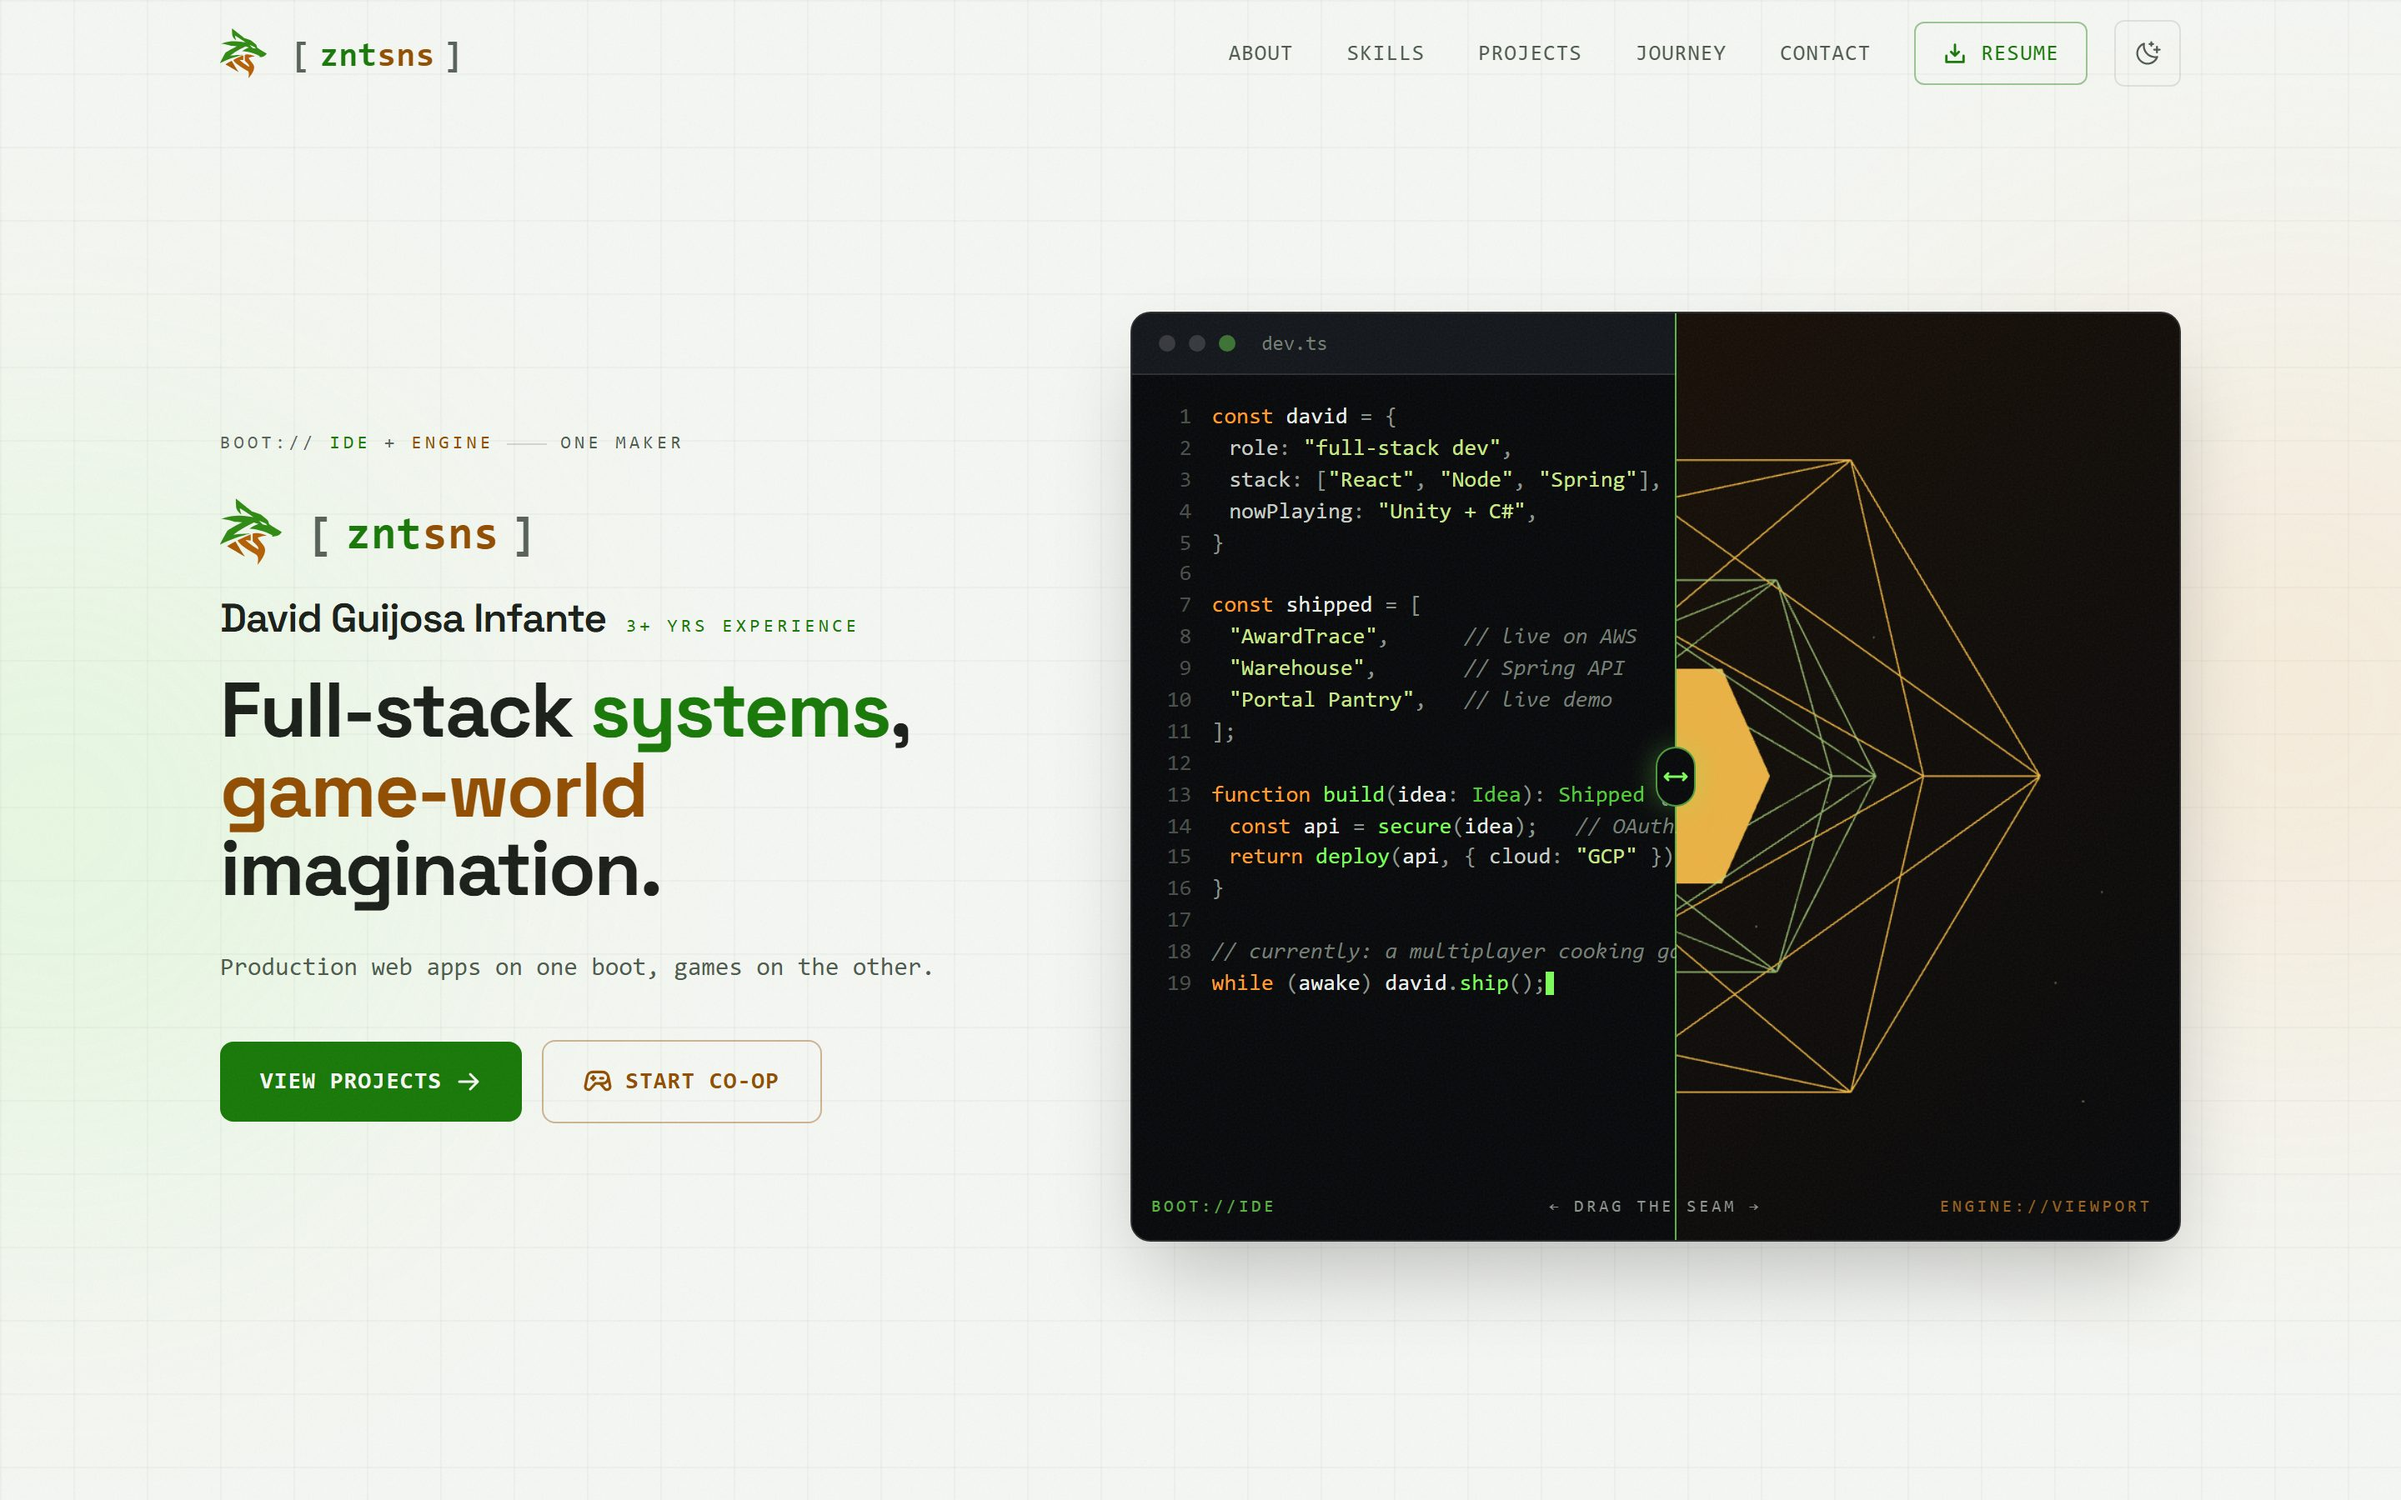
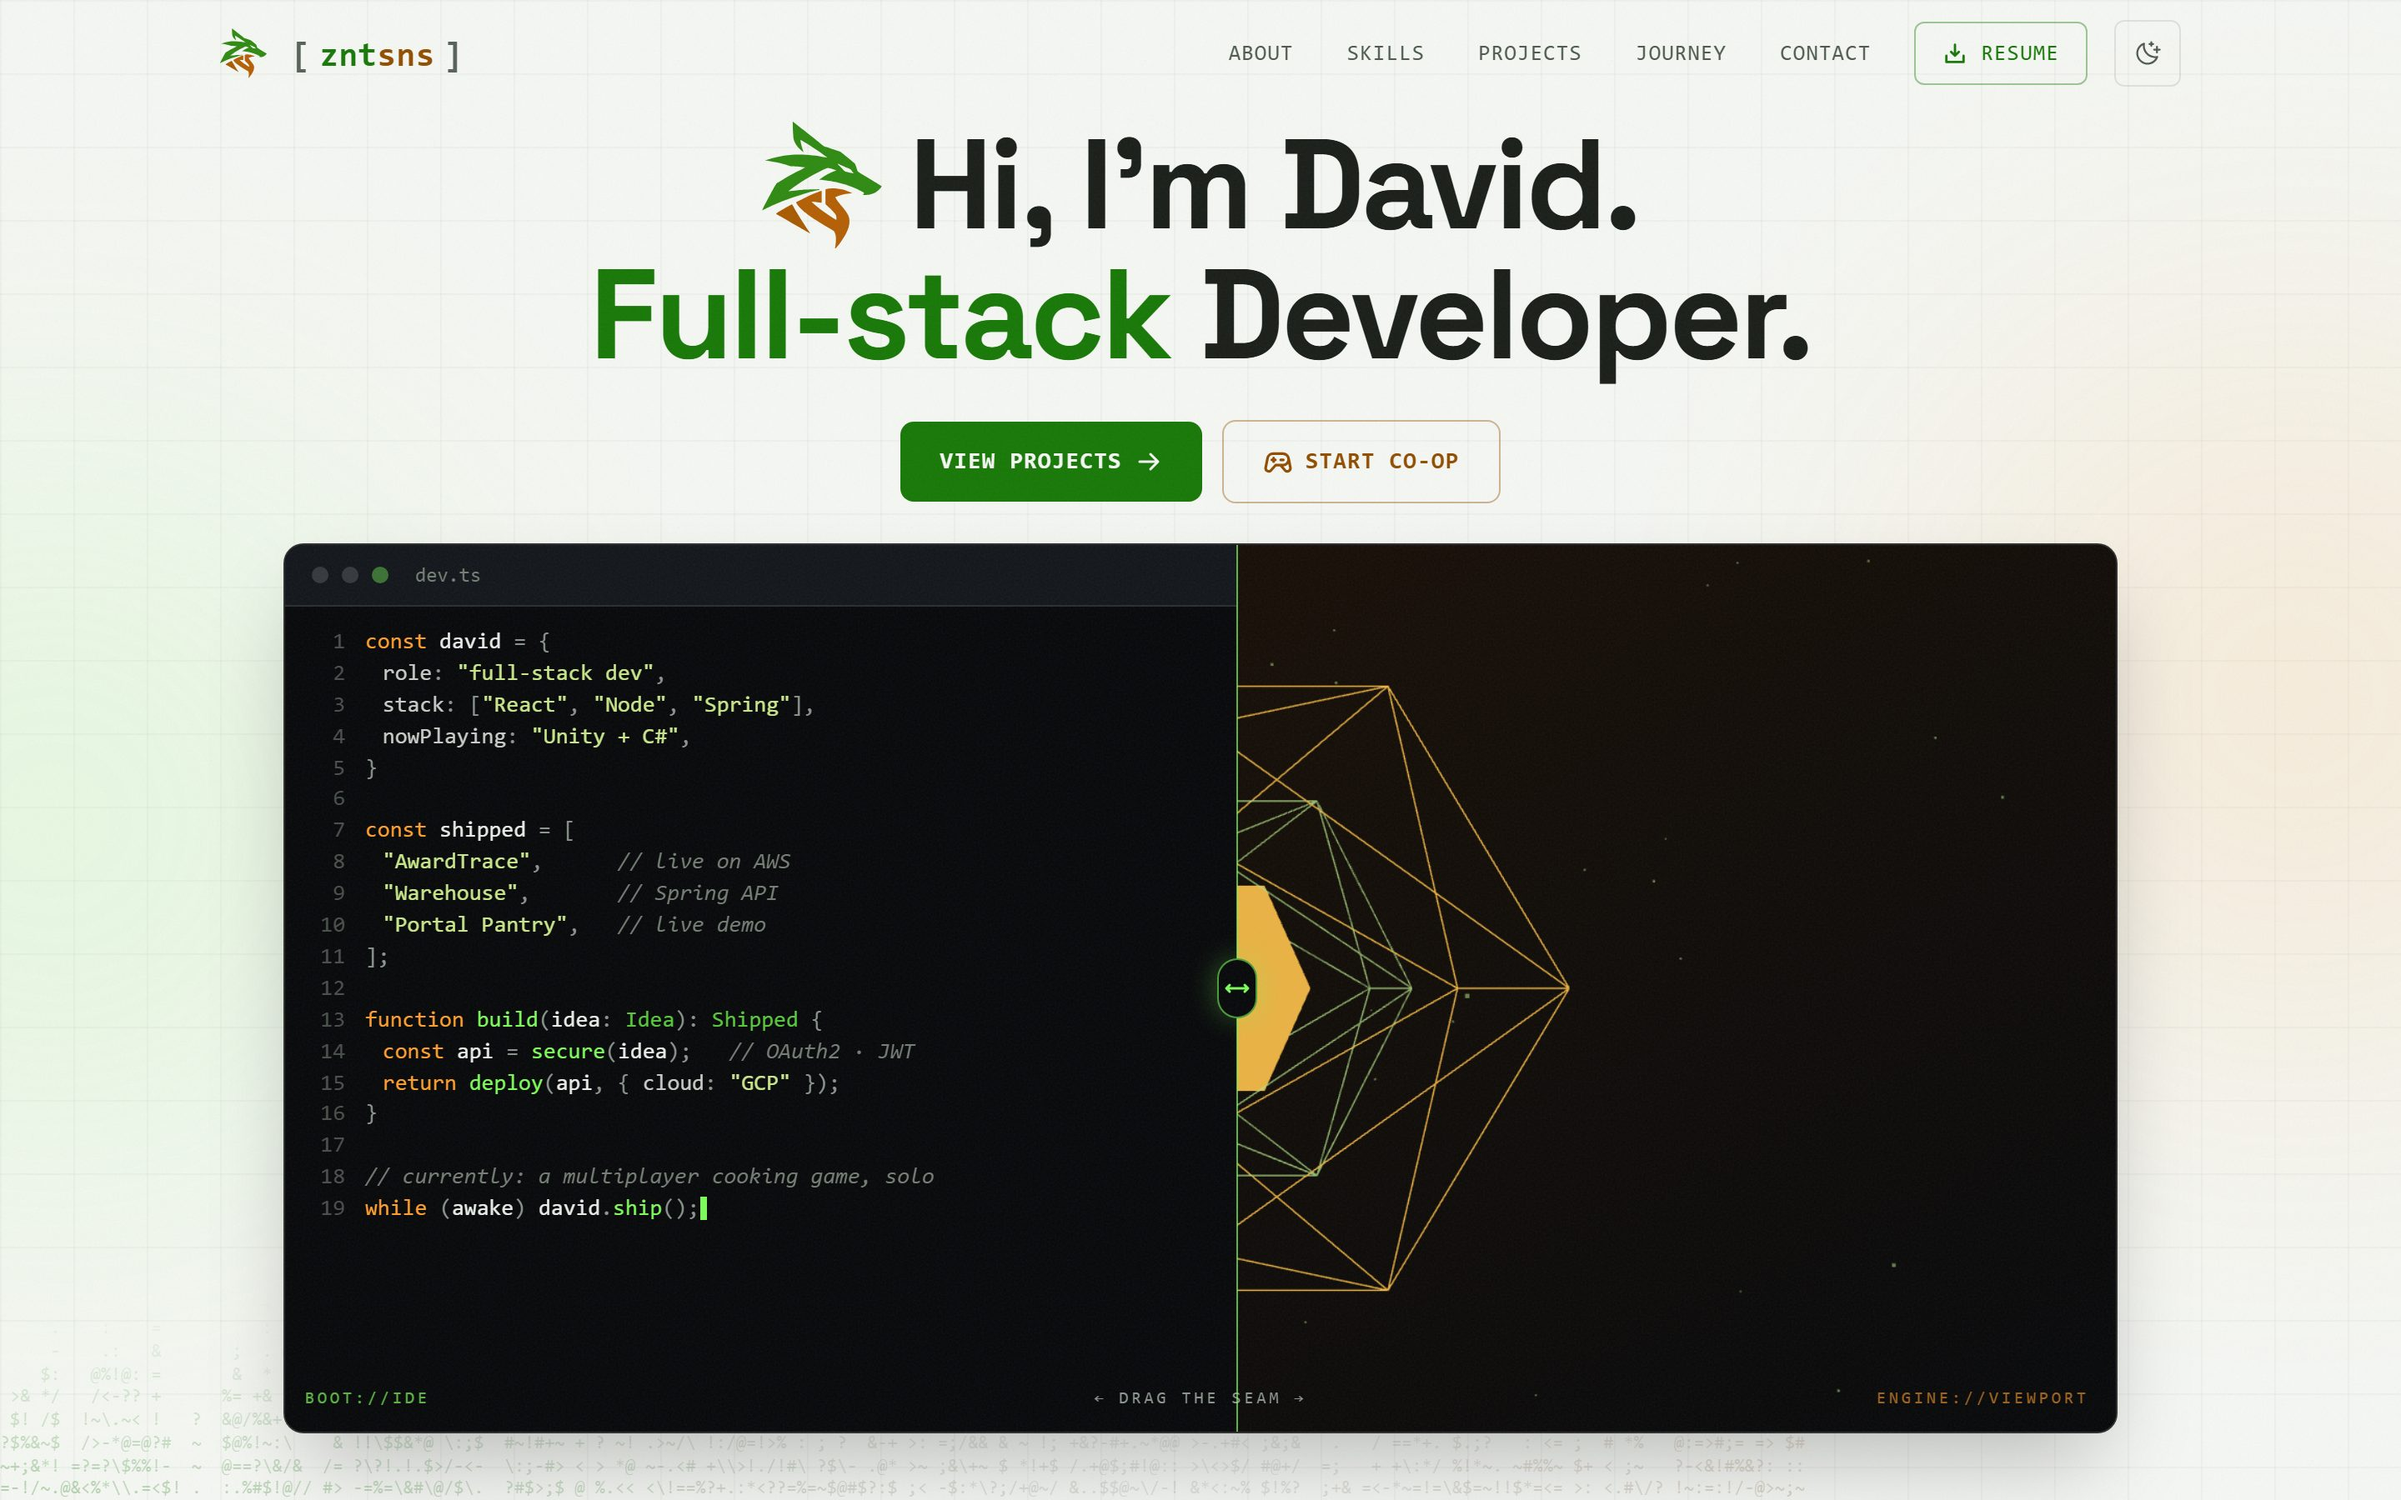
feat(hero): center the landing page with a cycling role headline

diff --git a/apps/portafolio/src/sections/Hero.tsx b/apps/portafolio/src/sections/Hero.tsx
@@ -8,7 +8,7 @@ import {
 } from "motion/react";
 import { ArrowRight, GameController, ArrowsHorizontal } from "@phosphor-icons/react";
 import { hero, site } from "../data/content";
-import { ZntsnsLogo } from "../components/ZntsnsLogo";
+import { useScramble } from "../lib/useScramble";
 import { MagneticButton } from "../components/MagneticButton";
 import { ErrorBoundary } from "../components/ErrorBoundary";
 import { Scanlines } from "../components/fx";
@@ -17,6 +17,69 @@ import { cn } from "../lib/cn";
 import { BrandLogo } from "../components/BrandLogo";
 
 const EngineViewport = lazy(() => import("./EngineViewport"));
+
+/** The role word in "… Developer." cycles, decoding through the scramble glyphs each time. */
+function RoleWord({ play }: { play: boolean }) {
+  const [i, setI] = useState(0);
+  useEffect(() => {
+    if (!play) return;
+    const id = window.setInterval(() => setI((n) => (n + 1) % hero.roles.length), 2600);
+    return () => window.clearInterval(id);
+  }, [play]);
+  const text = useScramble(hero.roles[i], play, 0.35);
+  return (
+    <span aria-hidden="true" className={i % 2 ? "text-amber text-glow-amber" : "text-acid text-glow-acid"}>
+      {text}
+    </span>
+  );
+}
+
+const GLYPHS = "#$%&*+-./:;<=>?@~!\\";
+const COLS = 420; // ~2,800px of 11px mono, past ultrawide; the pre clips the rest
+const ROWS = 9;
+
+/** Heaps of glyphs along the bottom edge: column heights drift, characters flicker. */
+function glyphField(heights: number[]): string {
+  const pick = () => GLYPHS[Math.floor(Math.random() * GLYPHS.length)];
+  return Array.from({ length: ROWS }, (_, r) =>
+    heights.map((h) => (r >= ROWS - h ? pick() : " ")).join(""),
+  ).join("\n");
+}
+
+/**
+ * Column heights at tick `t`: two sine swells, a long one and a short chop. Phase
+ * grows with t, so every crest travels toward column 0 — right to left, like surf.
+ */
+function swell(t: number): number[] {
+  return Array.from({ length: COLS }, (_, c) => {
+    const y = 0.45 + 0.3 * Math.sin(c * 0.09 + t * 0.25) + 0.15 * Math.sin(c * 0.23 + t * 0.4);
+    return Math.max(0, Math.min(ROWS, Math.round(ROWS * y)));
+  });
+}
+
+function GlyphBand({ animate }: { animate: boolean }) {
+  const [text, setText] = useState("");
+  useEffect(() => {
+    let t = 0;
+    const tick = () => {
+      t += 1;
+      setText(glyphField(swell(t)));
+    };
+    tick();
+    if (!animate) return;
+    const id = window.setInterval(tick, 90);
+    return () => window.clearInterval(id);
+  }, [animate]);
+
+  return (
+    <pre
+      aria-hidden="true"
+      className="pointer-events-none absolute inset-x-0 bottom-0 select-none overflow-hidden whitespace-pre bg-gradient-to-r from-acid/30 via-white/10 to-amber/30 bg-clip-text font-mono text-[11px] leading-[1.25] text-transparent [mask-image:linear-gradient(to_top,black,transparent)]"
+    >
+      {text}
+    </pre>
+  );
+}
 
 export function Hero() {
   const reduce = useReducedMotion();
@@ -118,45 +181,21 @@ export function Hero() {
         />
       </div>
 
-      <div className="relative mx-auto grid min-h-[100dvh] max-w-[1240px] items-center gap-8 px-5 pb-12 pt-24 sm:px-8 lg:grid-cols-[minmax(0,43%)_1fr] lg:gap-10 lg:pt-20">
+      <div className="relative z-10 mx-auto flex min-h-[100dvh] max-w-[1240px] flex-col items-center px-5 pb-40 pt-28 sm:px-8 lg:h-[100dvh] lg:min-h-[640px] lg:pb-10 lg:pt-[4.5rem]">
         {/* Copy */}
-        <div className="max-w-xl">
-          {/* A boot line from the machine below rather than a badge — the same
-              BOOT:// vocabulary the viewport and footer terminal already speak. */}
-          <div className="mb-6 flex items-center gap-2 font-mono text-[11px] uppercase tracking-[0.2em] text-muted">
-            <span className="text-faint">boot://</span>
-            <span className="text-acid">ide</span>
-            <span className="text-faint" aria-hidden="true">
-              +
+        <div className="flex max-w-4xl flex-col items-center text-center">
+          {/* The h1 carries the full name: this page ranks for a person, not a slogan. */}
+          <h1 className="flex flex-col items-center whitespace-nowrap text-[min(7.4vw,3.6rem)] font-bold leading-[1.04] tracking-tight lg:text-[clamp(3rem,8.5vh,5rem)] lg:leading-[1.02]">
+            <span className="flex items-center gap-3 sm:gap-4">
+              <BrandLogo height={52} className="h-[1em] w-auto" />
+              Hi, I&apos;m {site.name}.
             </span>
-            <span className="text-amber">engine</span>
-            <span className="h-px w-6 bg-white/15" aria-hidden="true" />
-            <span>one maker</span>
-          </div>
-          <div className="mb-4 flex items-center gap-3">
-            <BrandLogo height={40} />
-            <ZntsnsLogo height={40} boot />
-          </div>
-          {/* The name is the h1, not the tagline below it: this page ranks for a
-              person, and a heading naming someone else's slogan spends that signal. */}
-          <div className="mb-4 flex flex-wrap items-baseline gap-x-3 gap-y-1">
-            <h1 className="text-xl font-semibold tracking-tight text-ink sm:text-2xl">
-              {site.fullName}
-            </h1>
-            <span className="font-mono text-[11px] uppercase tracking-[0.2em] text-acid">
-              {site.experience}
+            <span>
+              <RoleWord play={!reduce && inView} /> Developer.
             </span>
-          </div>
-          <p className="text-[2rem] font-bold tracking-tight sm:text-[2.5rem] lg:text-[2.5rem] lg:leading-[1.05] xl:text-[2.9rem] xl:leading-[1.03]">
-            <span className="block">
-              Full-stack <span className="text-acid text-glow-acid">systems</span>,
-            </span>
-            <span className="block">
-              <span className="text-amber text-glow-amber">game-world</span> imagination.
-            </span>
-          </p>
-          <p className="mt-6 max-w-md font-mono text-sm text-muted sm:text-[15px]">{hero.tagline}</p>
-          <div className="mt-8 flex flex-wrap items-center gap-3">
+            <span className="sr-only">{site.fullName}, {hero.roles.join(", ")} developer</span>
+          </h1>
+          <div className="mt-8 flex flex-wrap items-center justify-center gap-3 lg:mt-6">
             <MagneticButton
               href={hero.primaryCta.href}
               className="gap-2 rounded-lg bg-acid px-6 py-3.5 font-mono text-sm font-semibold uppercase tracking-wider text-void"
@@ -172,14 +211,15 @@ export function Hero() {
           </div>
         </div>
 
-        {/* Machine */}
-        <div className="w-full">
+        {/* Machine: the console under the headline. On desktop it takes the height left
+            over, so the whole hero fits the first screen. */}
+        <div className="mt-14 w-full max-w-[1100px] lg:mt-6 lg:min-h-0 lg:flex-1">
           <div
             ref={machineRef}
             data-theme="dark"
             className={cn(
               "relative overflow-hidden rounded-xl border border-white/15 bg-void shadow-2xl",
-              wide ? "h-[62vh] max-h-[560px]" : "grid",
+              wide ? "h-full" : "grid",
             )}
           >
             <div className={wide ? "absolute inset-0" : "relative h-[37vh] overflow-hidden border-b border-white/10"}>
@@ -229,6 +269,7 @@ export function Hero() {
           </div>
         </div>
       </div>
+      <GlyphBand animate={!reduce && inView} />
     </section>
   );
 }

diff --git a/apps/portafolio/src/sections/CodeEditor.tsx b/apps/portafolio/src/sections/CodeEditor.tsx
@@ -93,7 +93,7 @@ export function CodeEditor() {
         <span className="ml-2 text-xs text-faint">dev.ts</span>
       </div>
       {/* Long comments run under the seam on desktop; stacked on a phone, they scroll. */}
-      <div className="flex-1 overflow-x-auto overflow-y-hidden px-3 py-4 [scrollbar-width:none] sm:px-5">
+      <div className="flex-1 overflow-x-auto overflow-y-hidden px-3 py-4 [scrollbar-width:none] sm:px-5 lg:py-3">
         {heroCode.map((ln, i) => {
           const isPast = reduce || i < line;
           const isCur = !reduce && i === line;

diff --git a/apps/portafolio/src/data/content.ts b/apps/portafolio/src/data/content.ts
@@ -85,7 +85,8 @@ export const heroCode: CodeLine[] = [
 export const hero = {
   /** Two-line headline. The accent word is styled per-line in the component. */
   headline: ["Full-stack systems,", "game-world imagination."],
-  tagline: "Production web apps on one boot, games on the other.",
+  /** Cycles in the hero's "… Developer." line. */
+  roles: ["Full-stack", "Backend", "Frontend", "Game"],
   primaryCta: { label: "View projects", href: "#projects" },
   secondaryCta: { label: "Start co-op", href: "#contact" },
   engineHint: "drag the seam",
